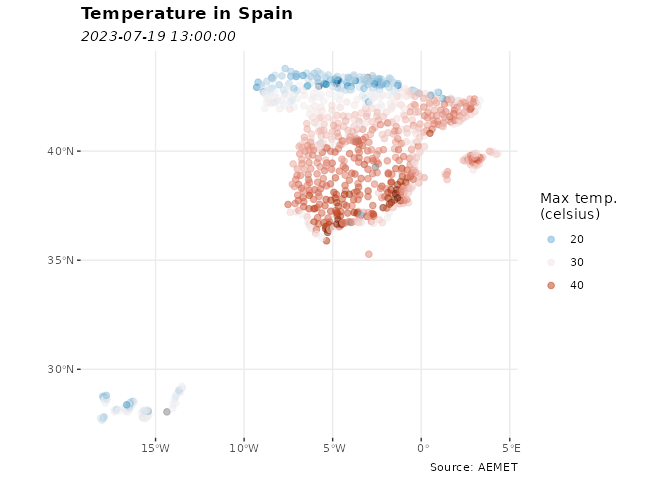
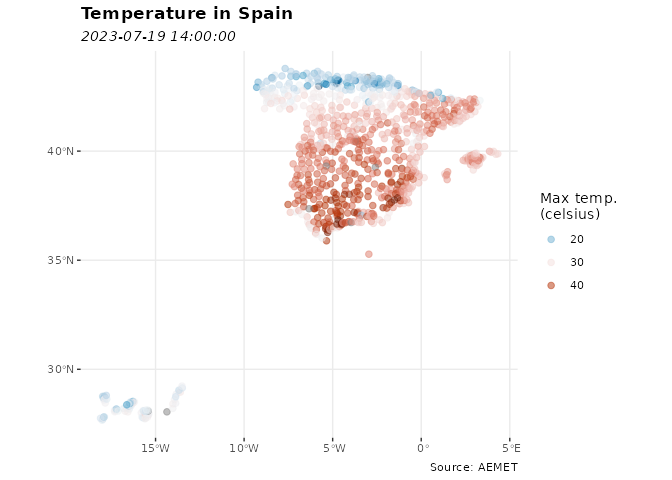
Finish metadata

diff --git a/README.md b/README.md
@@ -120,16 +120,16 @@ aemet_last_obs("9434")
 #> # A tibble: 23 × 25
 #>    idema   lon fint                 prec   alt  vmax    vv    dv   lat  dmax
 #>    <chr> <dbl> <dttm>              <dbl> <dbl> <dbl> <dbl> <dbl> <dbl> <dbl>
-#>  1 9434  -1.00 2023-07-19 13:00:00     0   249   7.8   3.3   298  41.7   295
-#>  2 9434  -1.00 2023-07-19 14:00:00     0   249   6.7   4.2   291  41.7   295
-#>  3 9434  -1.00 2023-07-19 15:00:00     0   249   9     6.6   303  41.7   303
-#>  4 9434  -1.00 2023-07-19 16:00:00     0   249   8.7   5.5   311  41.7   293
-#>  5 9434  -1.00 2023-07-19 17:00:00     0   249   9     6.3   309  41.7   315
-#>  6 9434  -1.00 2023-07-19 18:00:00     0   249  10.3   7.2   319  41.7   310
-#>  7 9434  -1.00 2023-07-19 19:00:00     0   249  12.2   8.7   313  41.7   315
-#>  8 9434  -1.00 2023-07-19 20:00:00     0   249  15     9.2   298  41.7   315
-#>  9 9434  -1.00 2023-07-19 21:00:00     0   249  13.1   8.8   308  41.7   308
-#> 10 9434  -1.00 2023-07-19 22:00:00     0   249  13.3  10     298  41.7   303
+#>  1 9434  -1.00 2023-07-19 14:00:00     0   249   6.7   4.2   291  41.7   295
+#>  2 9434  -1.00 2023-07-19 15:00:00     0   249   9     6.6   303  41.7   303
+#>  3 9434  -1.00 2023-07-19 16:00:00     0   249   8.7   5.5   311  41.7   293
+#>  4 9434  -1.00 2023-07-19 17:00:00     0   249   9     6.3   309  41.7   315
+#>  5 9434  -1.00 2023-07-19 18:00:00     0   249  10.3   7.2   319  41.7   310
+#>  6 9434  -1.00 2023-07-19 19:00:00     0   249  12.2   8.7   313  41.7   315
+#>  7 9434  -1.00 2023-07-19 20:00:00     0   249  15     9.2   298  41.7   315
+#>  8 9434  -1.00 2023-07-19 21:00:00     0   249  13.1   8.8   308  41.7   308
+#>  9 9434  -1.00 2023-07-19 22:00:00     0   249  13.3  10     298  41.7   303
+#> 10 9434  -1.00 2023-07-19 23:00:00     0   249  14.4   9.7   304  41.7   310
 #> # ℹ 13 more rows
 #> # ℹ 15 more variables: ubi <chr>, pres <dbl>, hr <dbl>, stdvv <dbl>, ts <dbl>,
 #> #   pres_nmar <dbl>, tamin <dbl>, ta <dbl>, tamax <dbl>, tpr <dbl>,
@@ -169,12 +169,12 @@ knitr::kable(head(data_observation))
 
 | idema |       lon | fint                | prec | alt | vmax |  vv |  dv |      lat | dmax | ubi                 |  pres |  hr | stdvv |   ts | pres_nmar | tamin |   ta | tamax |  tpr | stddv | inso | tss5cm | pacutp | tss20cm |
 |:------|----------:|:--------------------|-----:|----:|-----:|----:|----:|---------:|-----:|:--------------------|------:|----:|------:|-----:|----------:|------:|-----:|------:|-----:|------:|-----:|-------:|-------:|--------:|
-| 9434  | -1.004167 | 2023-07-19 13:00:00 |    0 | 249 |  7.8 | 3.3 | 298 | 41.66056 |  295 | ZARAGOZA AEROPUERTO | 987.2 |  41 |   0.8 | 37.4 |    1015.4 |  29.0 | 30.7 |  30.7 | 16.0 |    23 |   60 |   37.8 |      0 |    31.6 |
 | 9434  | -1.004167 | 2023-07-19 14:00:00 |    0 | 249 |  6.7 | 4.2 | 291 | 41.66056 |  295 | ZARAGOZA AEROPUERTO | 986.0 |  37 |   0.8 | 39.3 |    1013.9 |  30.7 | 32.5 |  32.5 | 16.0 |    14 |   60 |   39.3 |      0 |    32.0 |
 | 9434  | -1.004167 | 2023-07-19 15:00:00 |    0 | 249 |  9.0 | 6.6 | 303 | 41.66056 |  303 | ZARAGOZA AEROPUERTO | 985.2 |  35 |   1.0 | 40.1 |    1013.0 |  32.4 | 33.6 |  33.7 | 16.0 |    11 |   60 |   40.0 |      0 |    32.5 |
 | 9434  | -1.004167 | 2023-07-19 16:00:00 |    0 | 249 |  8.7 | 5.5 | 311 | 41.66056 |  293 | ZARAGOZA AEROPUERTO | 984.6 |  35 |   1.1 | 39.1 |    1012.4 |  33.5 | 33.8 |  34.0 | 16.2 |    12 |   60 |   40.0 |      0 |    33.0 |
 | 9434  | -1.004167 | 2023-07-19 17:00:00 |    0 | 249 |  9.0 | 6.3 | 309 | 41.66056 |  315 | ZARAGOZA AEROPUERTO | 984.2 |  33 |   1.0 | 37.5 |    1012.0 |  33.5 | 33.6 |  34.2 | 15.1 |    12 |   60 |   39.5 |      0 |    33.5 |
 | 9434  | -1.004167 | 2023-07-19 18:00:00 |    0 | 249 | 10.3 | 7.2 | 319 | 41.66056 |  310 | ZARAGOZA AEROPUERTO | 984.5 |  37 |   1.3 | 34.4 |    1012.5 |  32.0 | 32.0 |  33.9 | 15.5 |    10 |   60 |   38.4 |      0 |    33.9 |
+| 9434  | -1.004167 | 2023-07-19 19:00:00 |    0 | 249 | 12.2 | 8.7 | 313 | 41.66056 |  315 | ZARAGOZA AEROPUERTO | 985.1 |  41 |   1.4 | 30.1 |    1013.4 |  29.1 | 29.1 |  32.0 | 14.5 |     8 |   34 |   36.8 |      0 |    34.2 |
 
 ``` r
 
